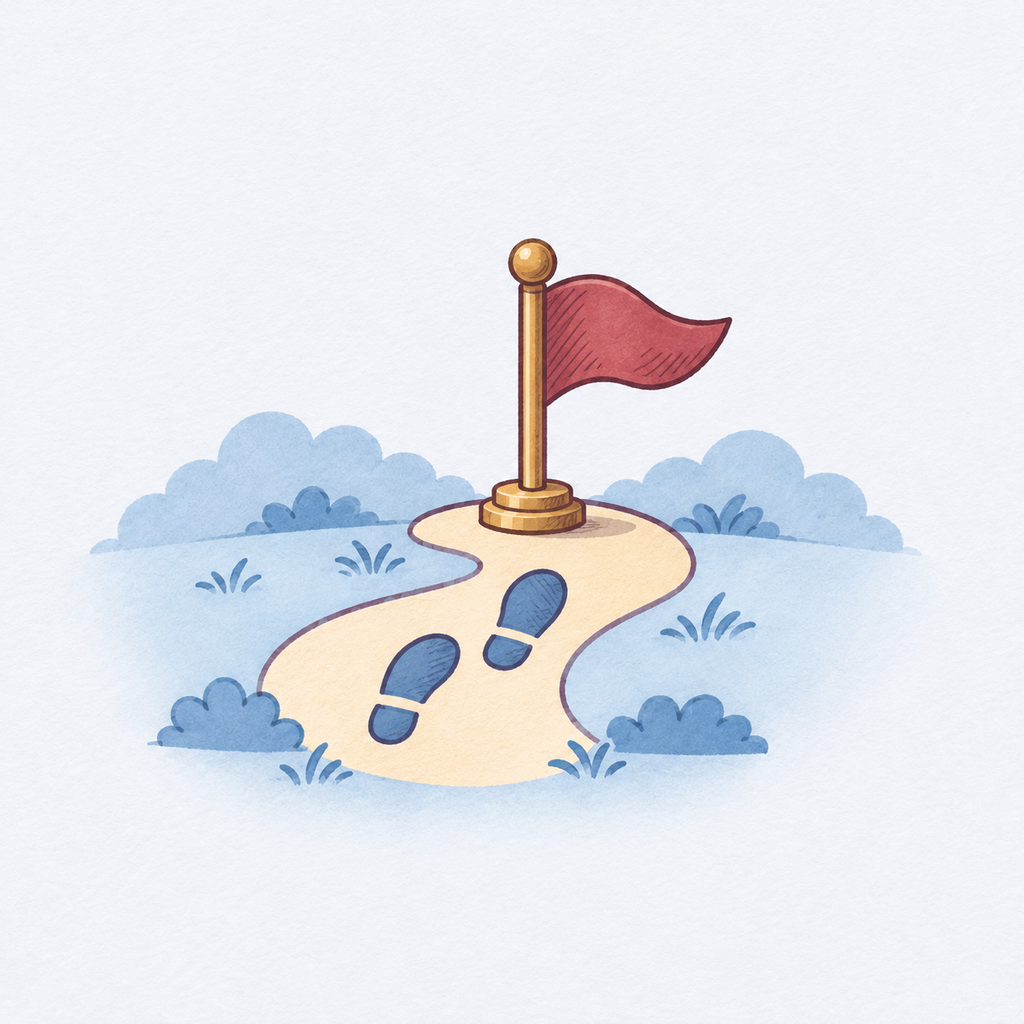
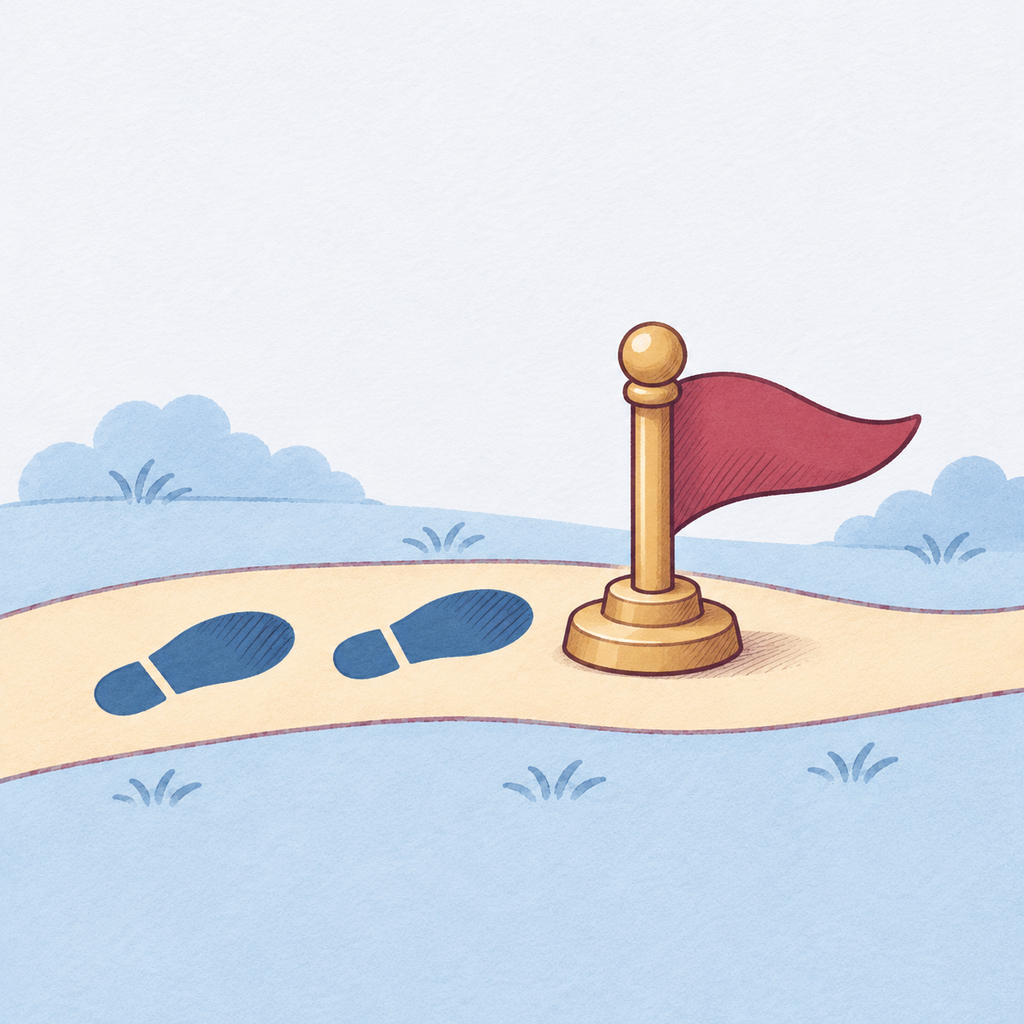
Improve arrive quest picture at pin size

diff --git a/design/art/README.md b/design/art/README.md
@@ -654,4 +654,4 @@ The wax-red canopy and upper bow swing rearward. The pleats gather, then the sta
 | `quest-types/quest-type-question.png` | 1024×1024 | Opaque question quest picture for a 46 px pin and centred 16:9 crop. |
 | `quest-types/quest-type-price.png` | 1024×1024 | Opaque price quest picture for a 46 px pin and centred 16:9 crop. |
 
-[Pin and banner review](_checks/quest-types-review.png) · [Asset audit](_checks/quest-types-assets.json). The first three pictures await Roy’s approval before catch and landmark are drawn.
+[Pin and banner review](_checks/quest-types-review.png) · [Asset audit](_checks/quest-types-assets.json). Roy approved question and price on 2026-11-18. The revised arrive picture places the flag and two footprints side by side across about 81% of the square. Catch and landmark follow Roy’s approval of arrive.
